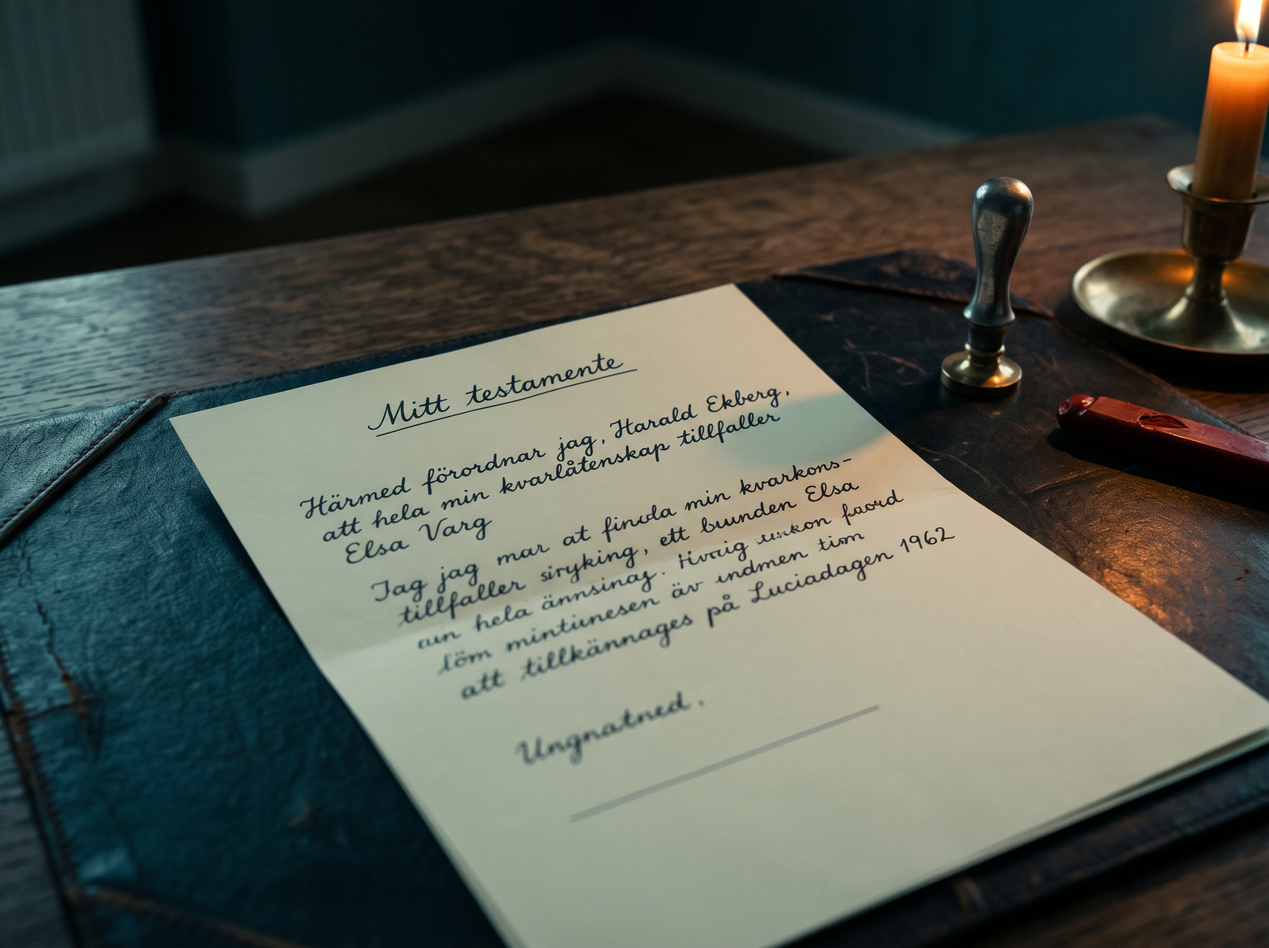
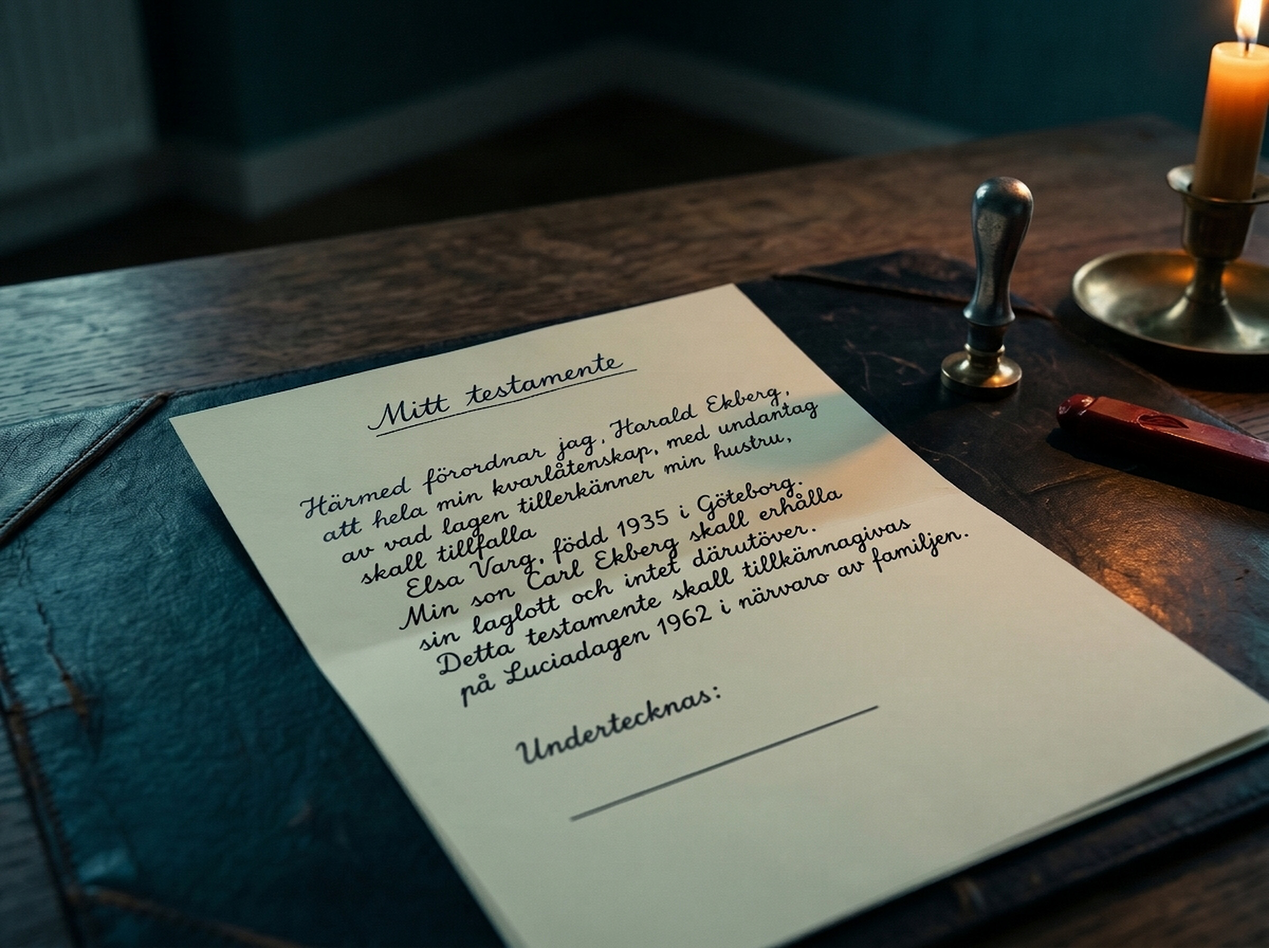
Nya bilder med rätt text (lucka 21, lucka 13, bonus 3) och säljarens ort i villkor, integritet och sidfot

diff --git a/app/villkor/page.tsx b/app/villkor/page.tsx
@@ -9,13 +9,14 @@ export const dynamic = "force-dynamic";
 export default function Villkor() {
   const namn = process.env.SALJARE_NAMN || "Säljaren";
   const epost = process.env.SALJARE_EPOST || "";
+  const adress = process.env.SALJARE_ADRESS || "";
   return (
     <>
       <main className="sida prosa">
         <Link href="/" className="liten">← Startsidan</Link>
         <h1 className="rubrik-mellan">Köpvillkor</h1>
         <h2>Säljare</h2>
-        <p>{namn}{epost && <>, e-post <a href={`mailto:${epost}`}>{epost}</a></>}.</p>
+        <p>{namn}{adress && <>, {adress}</>}{epost && <>, e-post <a href={`mailto:${epost}`}>{epost}</a></>}.</p>
         <h2>Vad du köper</h2>
         <p>En aktiveringskod till det digitala spelet Mordet på Klovskär, Adventsmysteriet 2026. Koden skapar ett lag där hela fem personer kan vara med och ger tillgång till 24 luckor som öppnas en per dag, sex bonusluckor och facit. Spelet spelas i webbläsaren på adventdeckare.se.</p>
         <h2>Pris och betalning</h2>

diff --git a/components/Sidfot.tsx b/components/Sidfot.tsx
@@ -3,13 +3,14 @@ import Link from "next/link";
 export function Sidfot() {
   const namn = process.env.SALJARE_NAMN;
   const epost = process.env.SALJARE_EPOST;
+  const adress = process.env.SALJARE_ADRESS;
   return (
     <footer className="sidfot">
       <p>Mordet på Klovskär – Adventsmysteriet 2026</p>
       <p>
         <Link href="/villkor">Köpvillkor</Link> · <Link href="/integritet">Integritet</Link> · <Link href="/topplista">Topplista</Link>
       </p>
-      {(namn || epost) && <p>Säljare: {namn}{namn && epost ? " · " : ""}{epost && <a href={`mailto:${epost}`}>{epost}</a>}</p>}
+      {(namn || epost) && <p>Säljare: {[namn, adress].filter(Boolean).join(", ")}{namn && epost ? " · " : ""}{epost && <a href={`mailto:${epost}`}>{epost}</a>}</p>}
       <p className="liten">Alla personer och händelser är påhittade.</p>
     </footer>
   );

diff --git a/app/integritet/page.tsx b/app/integritet/page.tsx
@@ -8,12 +8,13 @@ export const dynamic = "force-dynamic";
 export default function Integritet() {
   const namn = process.env.SALJARE_NAMN || "Säljaren";
   const epost = process.env.SALJARE_EPOST || "";
+  const adress = process.env.SALJARE_ADRESS || "";
   return (
     <>
       <main className="sida prosa">
         <Link href="/" className="liten">← Startsidan</Link>
         <h1 className="rubrik-mellan">Integritet</h1>
-        <p>Personuppgiftsansvarig är {namn}{epost && <> (<a href={`mailto:${epost}`}>{epost}</a>)</>}.</p>
+        <p>Personuppgiftsansvarig är {namn}{adress && <>, {adress}</>}{epost && <> (<a href={`mailto:${epost}`}>{epost}</a>)</>}.</p>
         <h2>Vad vi sparar</h2>
         <ul>
           <li><b>Köparens e-postadress</b>, för att skicka aktiveringskoden och kvittot och kunna hjälpa till om något går fel.</li>

diff --git a/content/luckor.ts b/content/luckor.ts
@@ -876,7 +876,7 @@ Vem är Elsas mor?`,
     titel: "Brevet från 1935",
     ingress: "I Haralds kassaskrin, under en falsk botten, låg ett brev och en kassabok. Ingrid sa att hon aldrig sett dem.",
     bilder: [
-      { namn: "lucka-21", alt: "Ett handskrivet brev daterat Göteborg maj 1935, Käre Harald, vårt barn är fött, undertecknat M., ovanpå en kassabok där det står M.L. 25 kr för varje år från 1935 till 1962." },
+      { namn: "lucka-21", alt: "Ett handskrivet brev daterat Göteborg maj 1935, Käre Harald, vårt barn är fött, undertecknat M., bredvid en kassabok med M.L. 25 kr för varje månad fram till november 1962 och sist raden Inga fler. 28/11 i en argare handstil." },
     ],
     avsnitt: [
       {
